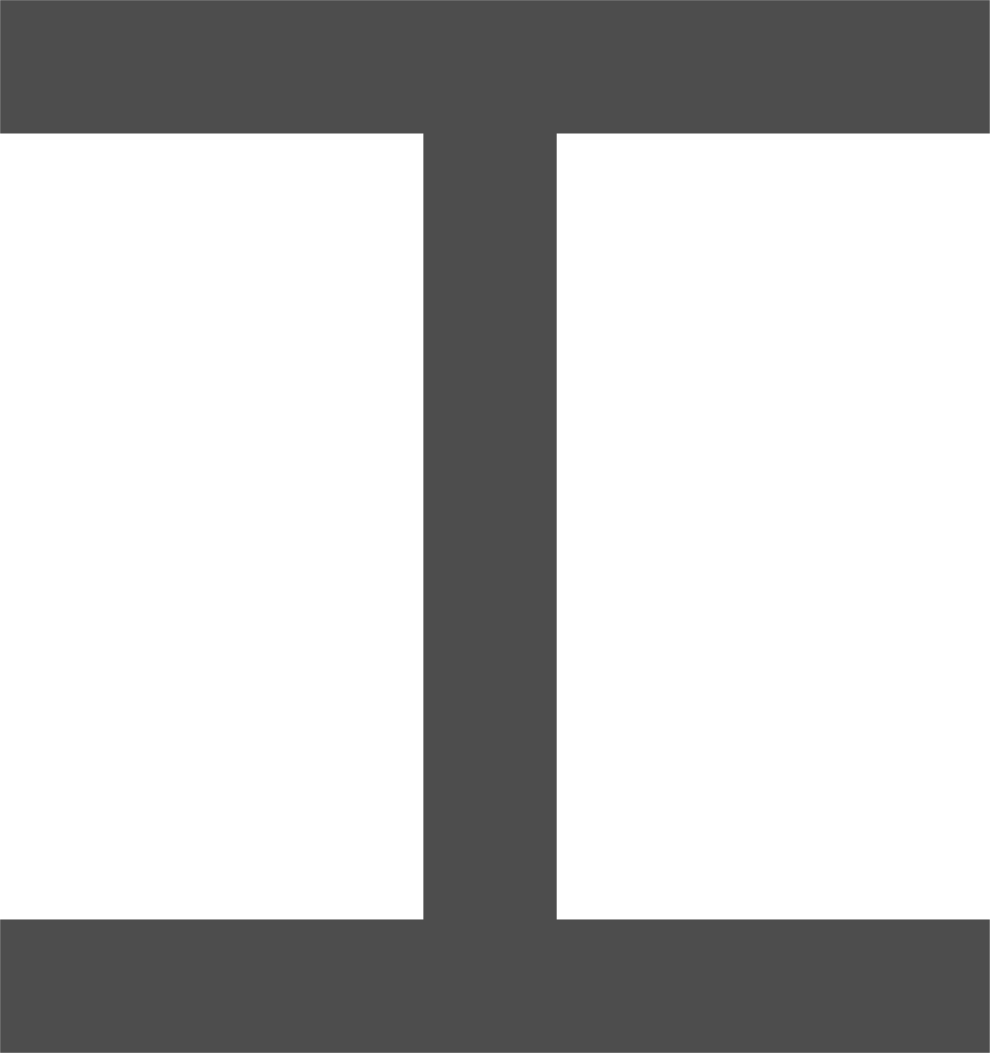
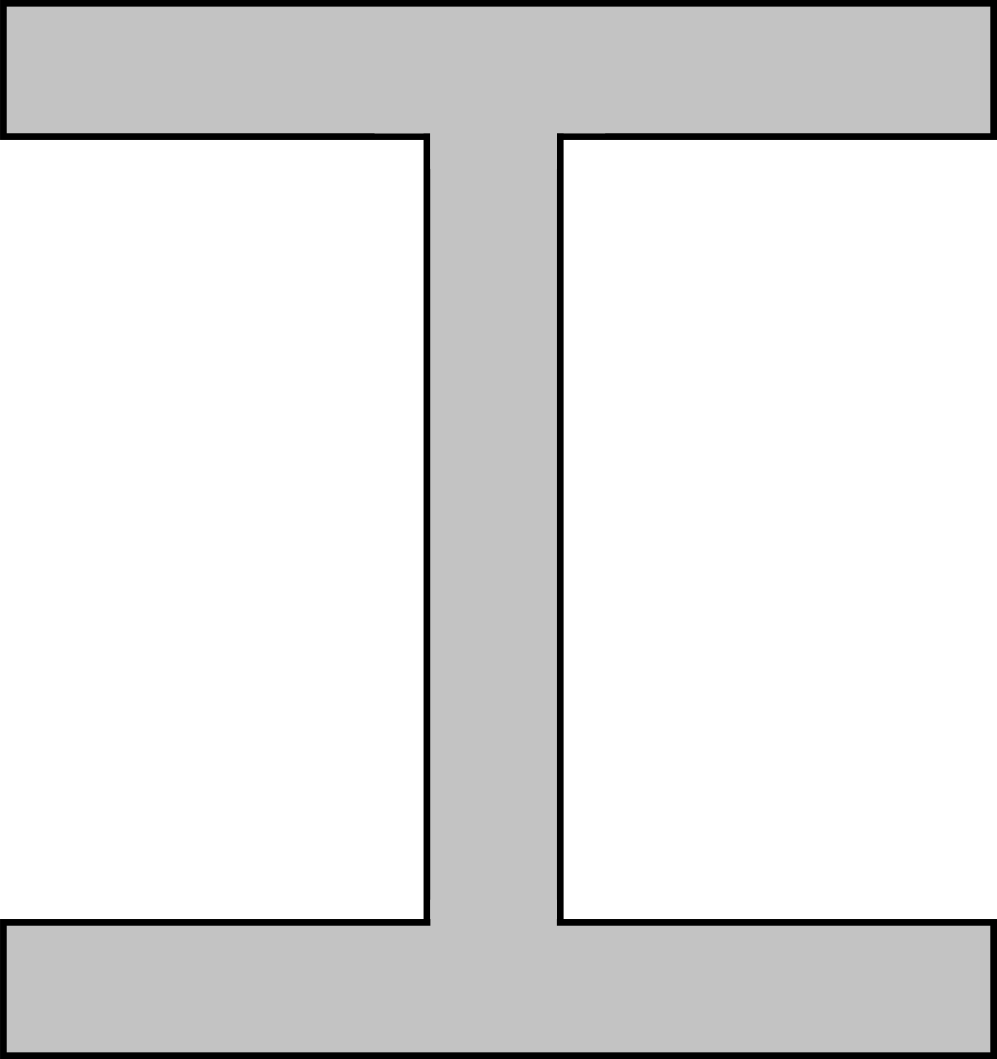
Arrows for tau stresses
- Implemented arrows to show amplitude and direction of tau stress

To do:
- Let arrows of external forces disappear if Fy==0 or Fz==0
- Latex font for sigma and tau buttons
- Re-examine calculation and visualisation of stresses in deformation plots (bug with colors of elements at left end of beam)
- Implement corporate design and simplify layout

diff --git a/2D_cantilever_beam/main.py b/2D_cantilever_beam/main.py
@@ -393,22 +393,31 @@ def fun_change_Py(attrname, old, new):
     # Update Stresses acting on internal XY-Element:
     sigma_x_l,sigma_x_r,tau_xy = functions.calculate_stresses_xy_element(length,height,thickness,cross_section_options_i,Py,Pz,E)
     
+
+    ## IF SIGMA BUTTON IS ACTIVATED:
     if (stress_options_i==0):
         ## DELETE TAU PLOTS
         Tauplot_l_Source.data = dict(x = [], y = [])
         Tauplot_r_Source.data = dict(x = [], y = [])
-        Tauplot_u_Source.data = dict(x = [], y = [])        
-        ## SCALING AND POSITION OF SIGMA
+        Tauplot_u_Source.data = dict(x = [], y = [])   
+        ## DELETE TAU ARROWS
+        TauArrowSource1.data = dict(xs=[] , xe= [], ys=[] , ye=[])            
+        TauArrowSource2.data = dict(xs=[] , xe= [], ys=[] , ye=[])        
+        TauArrowSource3.data = dict(xs=[] , xe= [], ys=[] , ye=[])            
+        TauArrowSource4.data = dict(xs=[] , xe= [], ys=[] , ye=[])
+
+        ## SCALING AND POSITION OF SIGMA GLYPHS
         sigmascaling = 0.000005
         sigma_l_pos = 1.5
         sigma_r_pos = 3.5
+
         ## SIGMA_X LEFT END DATA SOURCE:
         sigma_x_l_scaled = np.linspace(0, 0, len(sigma_x_l))
         # Create scaled and reversed list 
         for i in range(len(sigma_x_l)): 
             sigma_x_l_scaled[i]=sigma_x_l[len(sigma_x_l)-i-1]*sigmascaling
         SigmaPlot_l_x = np.hstack((np.linspace(sigma_l_pos, sigma_l_pos, len(sigma_x_l)), sigma_l_pos-abs(sigma_x_l_scaled)))
-        SigmaPlot_l_y = np.hstack((np.linspace(-0.5, 0, len(sigma_x_l)),np.linspace(0, -0.5, len(sigma_x_l))))
+        SigmaPlot_l_y = np.hstack((np.linspace(-0.525, 0, len(sigma_x_l)),np.linspace(0, -0.525, len(sigma_x_l))))
         Sigmaplot_l_Source.data = dict(x = SigmaPlot_l_x, y = SigmaPlot_l_y)
         ## SIGMA_X RIGHT END DATA SOURCE:
         sigma_x_r_scaled = np.linspace(0, 0, len(sigma_x_r))
@@ -416,18 +425,13 @@ def fun_change_Py(attrname, old, new):
         for i in range(len(sigma_x_r)): 
             sigma_x_r_scaled[i]=sigma_x_r[len(sigma_x_r)-i-1]*sigmascaling
         SigmaPlot_r_x = np.hstack((np.linspace(sigma_r_pos, sigma_r_pos, len(sigma_x_r)), sigma_r_pos+abs(sigma_x_r_scaled)))
-        SigmaPlot_r_y = np.hstack((np.linspace(-0.5, 0, len(sigma_x_r)),np.linspace(0, -0.5, len(sigma_x_r))))
+        SigmaPlot_r_y = np.hstack((np.linspace(-0.525, 0, len(sigma_x_r)),np.linspace(0, -0.525, len(sigma_x_r))))
         Sigmaplot_r_Source.data = dict(x = SigmaPlot_r_x, y = SigmaPlot_r_y)
-
-        ## Stress Arrows Plot
-        TauArrowSource1.data = dict(xs=[] , xe= [], ys=[] , ye=[])            
-        TauArrowSource2.data = dict(xs=[] , xe= [], ys=[] , ye=[])        
-        TauArrowSource3.data = dict(xs=[] , xe= [], ys=[] , ye=[])            
-        TauArrowSource4.data = dict(xs=[] , xe= [], ys=[] , ye=[])
         
-        # Arrows left end
+        # SCALING AND POSITIONING OF SIGMA ARROWS
         arrow_scale = 0.7
         arrow_adjust_x = 0.05
+        # Arrows left end    
         if (Py<-1500):
             SigmaArrowSource1.data = dict(xs=[sigma_l_pos-arrow_adjust_x] , xe= [sigma_l_pos+arrow_scale*sigma_x_l_scaled[int(round(len(sigma_x_l_scaled)*4.0/5.0))]], ys=[-0.4] , ye=[-0.4])
             SigmaArrowSource2.data = dict(xs=[sigma_l_pos-arrow_adjust_x] , xe= [sigma_l_pos+arrow_scale*sigma_x_l_scaled[int(round(len(sigma_x_l_scaled)*2.5/5.0))]] , ys=[-0.25] , ye=[-0.25] )
@@ -460,45 +464,12 @@ def fun_change_Py(attrname, old, new):
             SigmaArrowSource5.data = dict(xs=[] , xe= [], ys=[] , ye=[])
             SigmaArrowSource6.data = dict(xs=[] , xe= [], ys=[] , ye=[])
 
+    ## IF TAU BUTTON IS ACTIVATED:
     if (stress_options_i==1):    
         ## DELETE SIGMA PLOTS
         Sigmaplot_l_Source.data = dict(x = [], y = [])
         Sigmaplot_r_Source.data = dict(x = [], y = [])
-        ## SCALING AND POSITION OF TAU
-        tau_xy_scaling = 0.00001
-        tau_xy_l_pos = 1.5
-        tau_xy_r_pos = 3.5
-        tau_xy_u_pos = 2.5        
-
-        ## TAU LEFT END DATA SOURCE:
-        tau_xy_l_scaled = np.linspace(0, 0, len(tau_xy))
-        # Create scaled and reversed list 
-        for i in range(len(tau_xy)): 
-            tau_xy_l_scaled[i]=tau_xy[len(tau_xy)-i-1]*tau_xy_scaling
-        TauPlot_l_x = np.hstack((np.linspace(tau_xy_l_pos, tau_xy_l_pos, len(tau_xy)), tau_xy_l_pos-abs(tau_xy_l_scaled)))
-        TauPlot_l_y = np.hstack((np.linspace(-0.5, 0, len(tau_xy)),np.linspace(0, -0.5, len(tau_xy))))
-        Tauplot_l_Source.data = dict(x = TauPlot_l_x, y = TauPlot_l_y)
-        
-        ## TAU RIGHT END DATA SOURCE:
-        tau_xy_r_scaled = np.linspace(0, 0, len(tau_xy))
-        # Create scaled and reversed list 
-        for i in range(len(tau_xy)): 
-            tau_xy_r_scaled[i]=tau_xy[len(tau_xy)-i-1]*tau_xy_scaling
-        TauPlot_r_x = np.hstack((np.linspace(tau_xy_r_pos, tau_xy_r_pos, len(tau_xy)), tau_xy_r_pos+abs(tau_xy_r_scaled)))
-        TauPlot_r_y = np.hstack((np.linspace(-0.5, 0, len(tau_xy)),np.linspace(0, -0.5, len(tau_xy))))
-        Tauplot_r_Source.data = dict(x = TauPlot_r_x, y = TauPlot_r_y)
-
-        ## TAU UPPER BORDER DATA SOURCE
-        tau_xy_u_scaled = np.linspace(0, 0, len(tau_xy))
-        # Create scaled and reversed list consisting of tau_max value: 
-        for i in range(len(tau_xy)): 
-            tau_xy_u_scaled[i]=tau_xy[len(tau_xy)-1]*tau_xy_scaling
-        TauPlot_u_x = np.hstack((np.linspace(tau_xy_u_pos-1, tau_xy_u_pos+1, len(tau_xy)), np.linspace(tau_xy_u_pos+1, tau_xy_u_pos-1, len(tau_xy))))
-        TauPlot_u_y = np.hstack((np.linspace(0, 0, len(tau_xy)), abs(tau_xy_u_scaled)))
-        Tauplot_u_Source.data = dict(x = TauPlot_u_x, y = TauPlot_u_y)
-
-
-        ## Stress Arrows Plot
+        ## DELETE SIGMA ARROWS
         SigmaArrowSource1.data = dict(xs=[] , xe= [], ys=[] , ye=[])
         SigmaArrowSource2.data = dict(xs=[] , xe= [], ys=[] , ye=[])
         SigmaArrowSource3.data = dict(xs=[] , xe= [], ys=[] , ye=[])
@@ -506,38 +477,81 @@ def fun_change_Py(attrname, old, new):
         SigmaArrowSource5.data = dict(xs=[] , xe= [], ys=[] , ye=[])
         SigmaArrowSource6.data = dict(xs=[] , xe= [], ys=[] , ye=[])
 
-        # Arrows left end
-        arrow_scale = 0.7
-        arrow_adjust_x = 0
-        arrow_adjust_y = 0    
+        ## SCALING AND POSITION OF TAU GLYPHS
+        tau_xy_scaling = 0.00001
+        tau_xy_l_pos_x = 1.5
+        tau_xy_r_pos_x = 3.5
+        tau_xy_u_pos_x = 2.5        
+
+        ## TAU LEFT END DATA SOURCE:
+        tau_xy_l_scaled = np.linspace(0, 0, len(tau_xy))
+        # Create scaled and reversed list 
+        for i in range(len(tau_xy)): 
+            tau_xy_l_scaled[i]=tau_xy[len(tau_xy)-i-1]*tau_xy_scaling
+        TauPlot_l_x = np.hstack((np.linspace(tau_xy_l_pos_x, tau_xy_l_pos_x, len(tau_xy)), tau_xy_l_pos_x-abs(tau_xy_l_scaled)))
+        TauPlot_l_y = np.hstack((np.linspace(-0.525, 0, len(tau_xy)),np.linspace(0, -0.525, len(tau_xy))))
+        Tauplot_l_Source.data = dict(x = TauPlot_l_x, y = TauPlot_l_y)
+        
+        ## TAU RIGHT END DATA SOURCE:
+        tau_xy_r_scaled = np.linspace(0, 0, len(tau_xy))
+        # Create scaled and reversed list 
+        for i in range(len(tau_xy)): 
+            tau_xy_r_scaled[i]=tau_xy[len(tau_xy)-i-1]*tau_xy_scaling
+        TauPlot_r_x = np.hstack((np.linspace(tau_xy_r_pos_x, tau_xy_r_pos_x, len(tau_xy)), tau_xy_r_pos_x+abs(tau_xy_r_scaled)))
+        TauPlot_r_y = np.hstack((np.linspace(-0.525, 0, len(tau_xy)),np.linspace(0, -0.525, len(tau_xy))))
+        Tauplot_r_Source.data = dict(x = TauPlot_r_x, y = TauPlot_r_y)
+
+        ## TAU UPPER BORDER DATA SOURCE
+        tau_xy_u_scaled = np.linspace(0, 0, len(tau_xy))
+        # Create scaled and reversed list consisting of tau_max value: 
+        for i in range(len(tau_xy)): 
+            tau_xy_u_scaled[i]=tau_xy[len(tau_xy)-1]*tau_xy_scaling
+        TauPlot_u_x = np.hstack((np.linspace(tau_xy_u_pos_x-1, tau_xy_u_pos_x+1, len(tau_xy)), np.linspace(tau_xy_u_pos_x+1, tau_xy_u_pos_x-1, len(tau_xy))))
+        TauPlot_u_y = np.hstack((np.linspace(0, 0, len(tau_xy)), abs(tau_xy_u_scaled)))
+        Tauplot_u_Source.data = dict(x = TauPlot_u_x, y = TauPlot_u_y)
+
+        ### SCALING AND POSITIONING OF ARROWS:
+        # Position arrows into tau glyph
+        arrow_adjust_x = max(abs(tau_xy_l_scaled))/4.0
+        # Make arrow size grow with increasing tau stress, but restrict length of arrows to dimensions of tau glyph
+        if (max(abs(tau_xy_u_scaled))/2.0 >= 0.15):
+            arrow_adjust_y = 0.15
+        else:
+            arrow_adjust_y = max(abs(tau_xy_u_scaled))/2.0
+        arrow_move_y = 0.04    
+        
+        ## ARROW LEFT END:
+        tau_xy_l_pos_y = -0.25                 
         if (Py<-1500):
-            TauArrowSource1.data = dict(xs=[] , xe= [], ys=[] , ye=[])
+            TauArrowSource1.data = dict(xs=[tau_xy_l_pos_x-arrow_adjust_x] , xe= [tau_xy_l_pos_x-arrow_adjust_x], ys=[tau_xy_l_pos_y+arrow_adjust_y+arrow_move_y] , ye=[tau_xy_l_pos_y-arrow_adjust_y+arrow_move_y])
         elif (Py>1500):
-            TauArrowSource1.data = dict(xs=[] , xe= [], ys=[] , ye=[])
+            TauArrowSource1.data = dict(xs=[tau_xy_l_pos_x-arrow_adjust_x] , xe= [tau_xy_l_pos_x-arrow_adjust_x], ys=[tau_xy_l_pos_y-arrow_adjust_y+arrow_move_y] , ye=[tau_xy_l_pos_y+arrow_adjust_y+arrow_move_y])
         else:            
             TauArrowSource1.data = dict(xs=[] , xe= [], ys=[] , ye=[])  
         
-        # Arrows right end
-        arrow_scale = 0.7
-        arrow_adjust_x = 0
-        arrow_adjust_y = 0
+        ## ARROWS RIGHT END:             
+        tau_xy_r_pos_y = -0.25           
         if (Py<-1500):
-            TauArrowSource2.data = dict(xs=[] , xe= [], ys=[] , ye=[])            
+            TauArrowSource2.data = dict(xs=[tau_xy_r_pos_x+arrow_adjust_x] , xe= [tau_xy_r_pos_x+arrow_adjust_x], ys=[tau_xy_r_pos_y-arrow_adjust_y+arrow_move_y] , ye=[tau_xy_r_pos_y+arrow_adjust_y+arrow_move_y])
         elif (Py>1500):
+            TauArrowSource2.data = dict(xs=[tau_xy_r_pos_x+arrow_adjust_x] , xe= [tau_xy_r_pos_x+arrow_adjust_x], ys=[tau_xy_r_pos_y+arrow_adjust_y+arrow_move_y] , ye=[tau_xy_r_pos_y-arrow_adjust_y+arrow_move_y])
+        else:            
             TauArrowSource2.data = dict(xs=[] , xe= [], ys=[] , ye=[])  
-        else:
-            TauArrowSource2.data = dict(xs=[] , xe= [], ys=[] , ye=[]) 
 
-        # Arrows upper border
-        arrow_scale = 0.7
-        arrow_adjust_x = 0
-        arrow_adjust_y = 0
+        ## ARROWS UPPER BORDER:
+        tau_xy_u_pos_y = 0.0            
+        # New arrow scaling and positioning for upper tau stress
+        if (max(abs(tau_xy_u_scaled)) >= 0.3):
+            arrow_adjust_x = 0.3
+        else:
+            arrow_adjust_x = max(abs(tau_xy_u_scaled))
+        arrow_adjust_y = max(abs(tau_xy_u_scaled))/2.0
         if (Py<-1500):
-            TauArrowSource3.data = dict(xs=[] , xe= [], ys=[] , ye=[])            
-            TauArrowSource4.data = dict(xs=[] , xe= [], ys=[] , ye=[])                        
+            TauArrowSource3.data = dict(xs=[(tau_xy_u_pos_x-0.5)-arrow_adjust_x] , xe= [(tau_xy_u_pos_x-0.5)+arrow_adjust_x], ys=[tau_xy_u_pos_y+arrow_adjust_y] , ye=[tau_xy_u_pos_y+arrow_adjust_y])            
+            TauArrowSource4.data = dict(xs=[(tau_xy_u_pos_x+0.5)-arrow_adjust_x] , xe= [(tau_xy_u_pos_x+0.5)+arrow_adjust_x], ys=[tau_xy_u_pos_y+arrow_adjust_y] , ye=[tau_xy_u_pos_y+arrow_adjust_y])                                  
         elif (Py>1500):
-            TauArrowSource3.data = dict(xs=[] , xe= [], ys=[] , ye=[])            
-            TauArrowSource4.data = dict(xs=[] , xe= [], ys=[] , ye=[])   
+            TauArrowSource3.data = dict(xs=[(tau_xy_u_pos_x-0.5)+arrow_adjust_x] , xe= [(tau_xy_u_pos_x-0.5)-arrow_adjust_x], ys=[tau_xy_u_pos_y+arrow_adjust_y] , ye=[tau_xy_u_pos_y+arrow_adjust_y])            
+            TauArrowSource4.data = dict(xs=[(tau_xy_u_pos_x+0.5)+arrow_adjust_x] , xe= [(tau_xy_u_pos_x+0.5)-arrow_adjust_x], ys=[tau_xy_u_pos_y+arrow_adjust_y] , ye=[tau_xy_u_pos_y+arrow_adjust_y])
         else:
             TauArrowSource3.data = dict(xs=[] , xe= [], ys=[] , ye=[])            
             TauArrowSource4.data = dict(xs=[] , xe= [], ys=[] , ye=[])   
@@ -1011,7 +1025,7 @@ plotXYElement.add_layout( Arrow(end=NormalHead(line_color="black",line_width=1,s
 #                     )
 
 plotXYElement.add_glyph(XYBeamSource,ImageURL(url="sp5", x=0, y=0.5, w=5, h=1.04))
-plotXYElement.add_glyph(XYElementSource,ImageURL(url="sp4", x=1.5, y=0, w=2, h=0.52))
+plotXYElement.add_glyph(XYElementSource,ImageURL(url="sp4", x=1.5, y=0, w=2, h=0.535))
 
 
 Sigmaplot_l_Glyph = Patch(x="x", y="y", fill_color='#0065BD', fill_alpha=0.5)
